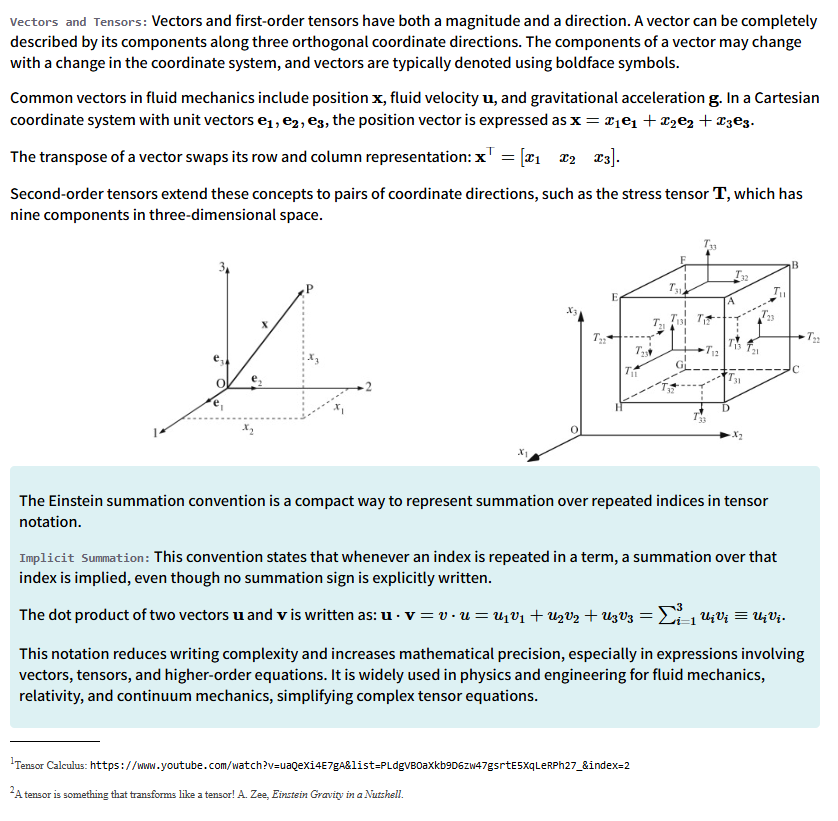
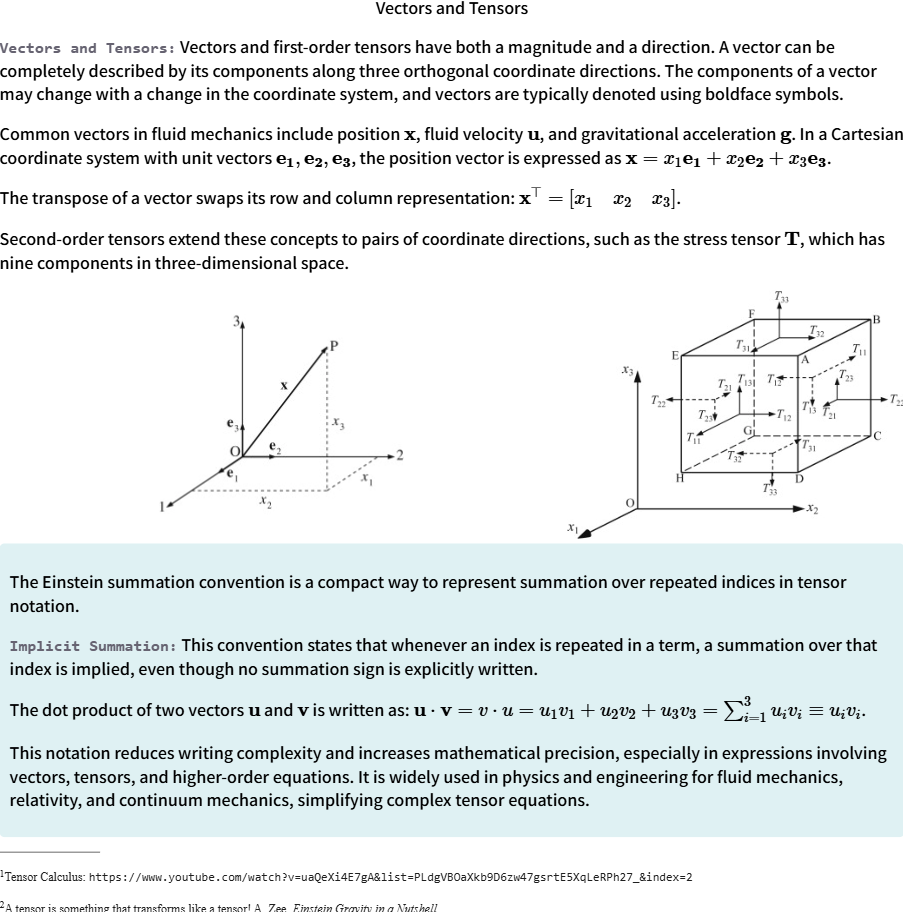
Update

Changed region(s): [[0.0, 0.3045, 1.0, 1.0], [0.0, 0.0, 1.0, 0.3045], [0.3413, 0.335, 0.3723, 0.3959]]

diff --git a/Lecture1ASlide2.html b/Lecture1ASlide2.html
@@ -28,6 +28,8 @@ window.addEventListener('resize', scaleContainer);
 </head>
 <body>
     <div class="container">
+                <div class="title">Vectors and Tensors</div>
+
         <!-- Introductory Content on Vectors and Tensors (Aligned to Left) -->
         <div style="text-align: left; max-width: 900px; margin: auto;">
             <p><span class="sql">Vectors and Tensors:</span> Vectors and first-order tensors have both a magnitude and a direction. A vector can be completely described by its components along three orthogonal coordinate directions. The components of a vector may change with a change in the coordinate system, and vectors are typically denoted using boldface symbols.</p>
